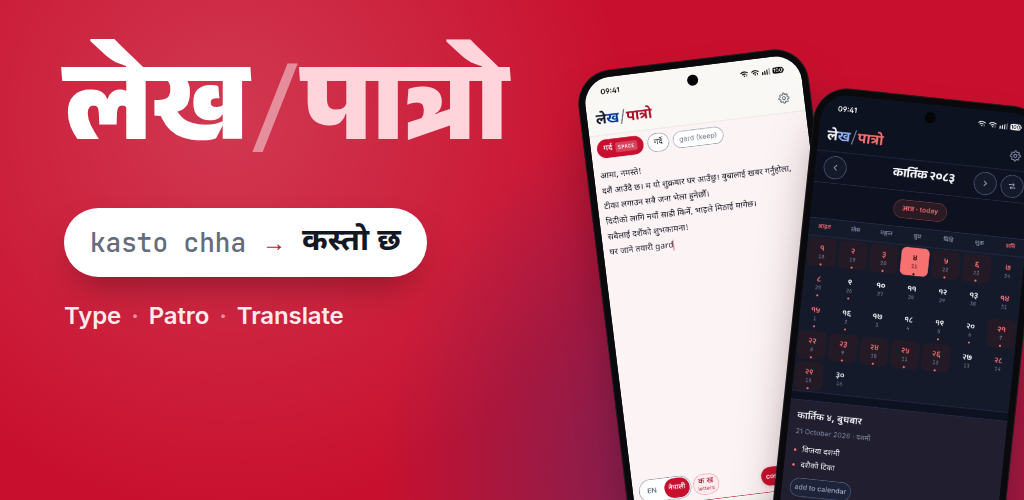
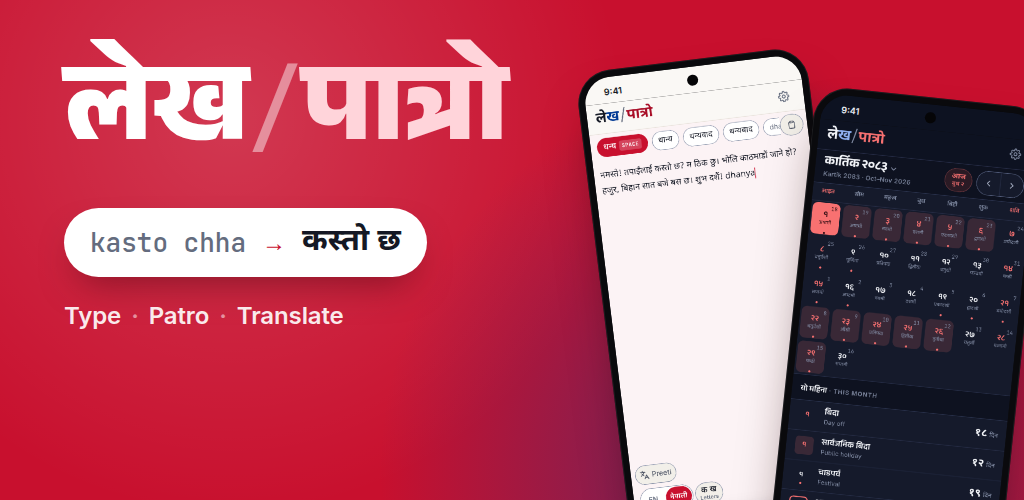
Feature graphic: today's captures (tithi grid, this-month key) with a drawn status bar

diff --git a/design/feature-graphic.html b/design/feature-graphic.html
@@ -106,7 +106,14 @@
           0 30px 50px -16px rgba(40, 0, 8, 0.55);
         z-index: 1;
       }
-      .phone img { display: block; width: 100%; border-radius: 27px; }
+      /* The captures have their status bar trimmed (2026-11-18, see
+         store-screenshots.html), so the frame draws it, in the app bar's
+         colour: 171 capture px at 218/1440. */
+      .scr { border-radius: 27px; overflow: hidden; }
+      .scr img { display: block; width: 100%; }
+      .bar { height: 26px; padding: 4px 0 0 20px; font: 600 9px/22px 'Inter', system-ui, sans-serif; }
+      .light { background: #faf8f5; color: #141824; }
+      .dark { background: #0d1221; color: #eef0f6; }
       .phone::after {
         content: '';
         position: absolute;
@@ -130,7 +137,7 @@
       </div>
       <div class="line">Type<span>·</span>Patro<span>·</span>Translate</div>
     </div>
-    <div class="phone p1"><img src="play/raw/type.png" alt="" /></div>
-    <div class="phone p2"><img src="play/raw/patro-dark.png" alt="" /></div>
+    <div class="phone p1"><div class="scr"><div class="bar light">9:41</div><img src="play/raw/type.png" alt="" /></div></div>
+    <div class="phone p2"><div class="scr"><div class="bar dark">9:41</div><img src="play/raw/patro-dark.png" alt="" /></div></div>
   </body>
 </html>

diff --git a/design/play/listing.md b/design/play/listing.md
@@ -106,5 +106,5 @@ online translation feature, transient, not stored, and user-initiated.
 |---|---|
 | `icon-512.png` | App icon, 512×512, 32-bit with alpha |
 | `feature-graphic.png` | 1024×500, regenerate with `npm run play:feature` |
-| `01-type.png` … `07-private.png` | Phone screenshots, 1440×2560 (9:16), 24-bit. Regenerate with `npm run play:screenshots` from `design/store-screenshots.html` |
+| `01-type.png` … `08-private.png` | Phone screenshots (8), 1440×2560 (9:16), 24-bit. Regenerate with `npm run play:screenshots` from `design/store-screenshots.html` |
 | `raw/` | The real device captures inside those frames (A024, 2026-09-30, v1.9.34) — recapture when the UI changes |
